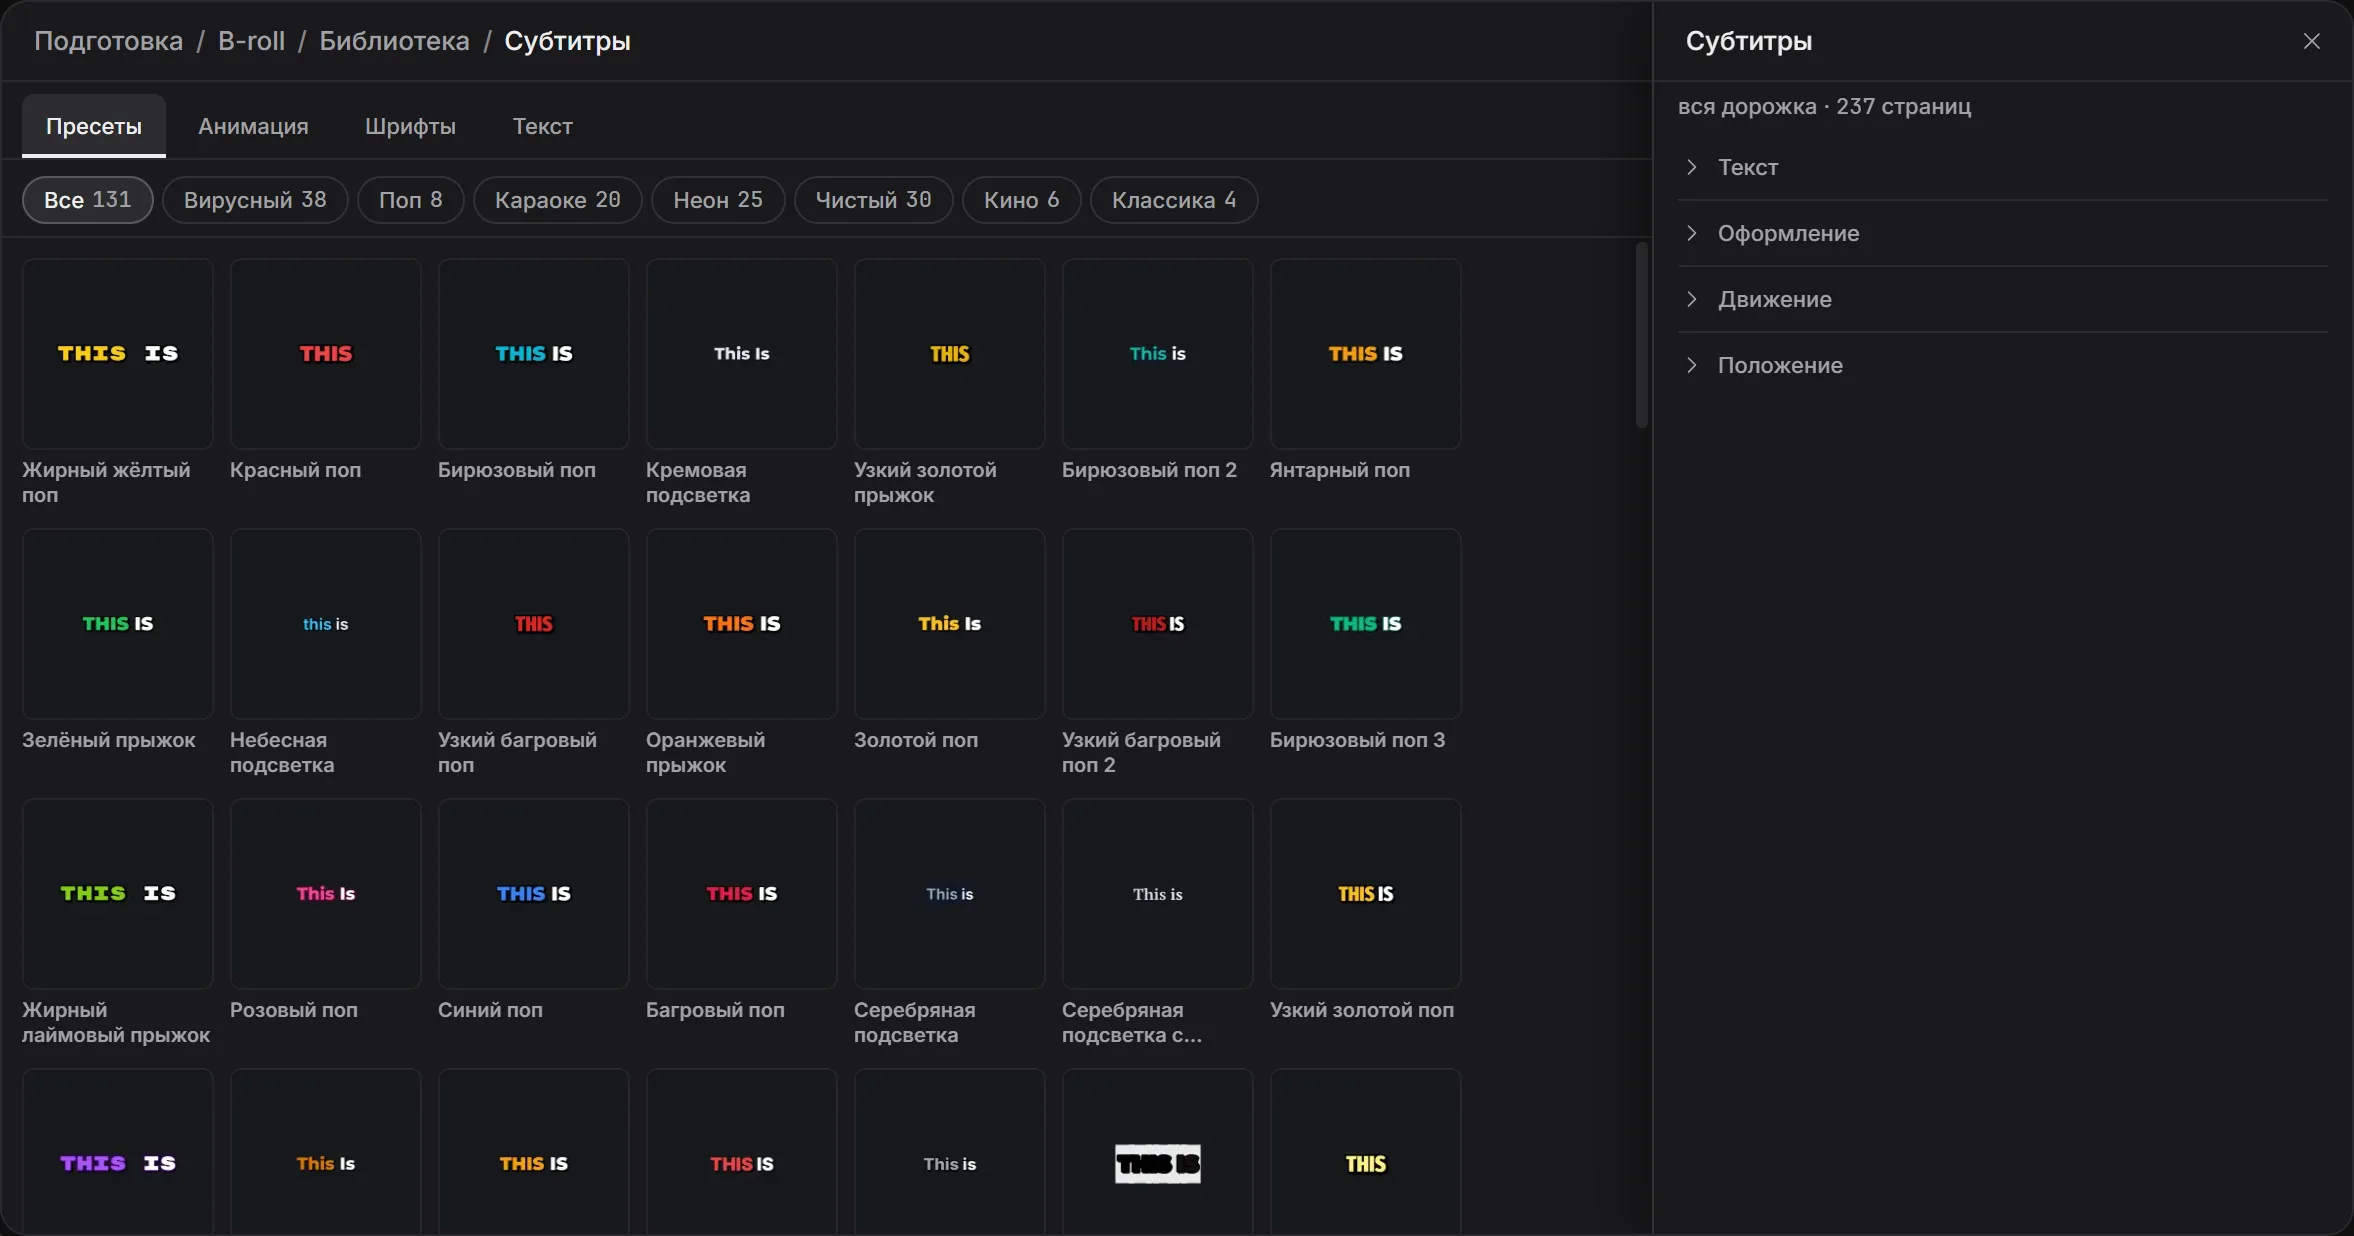
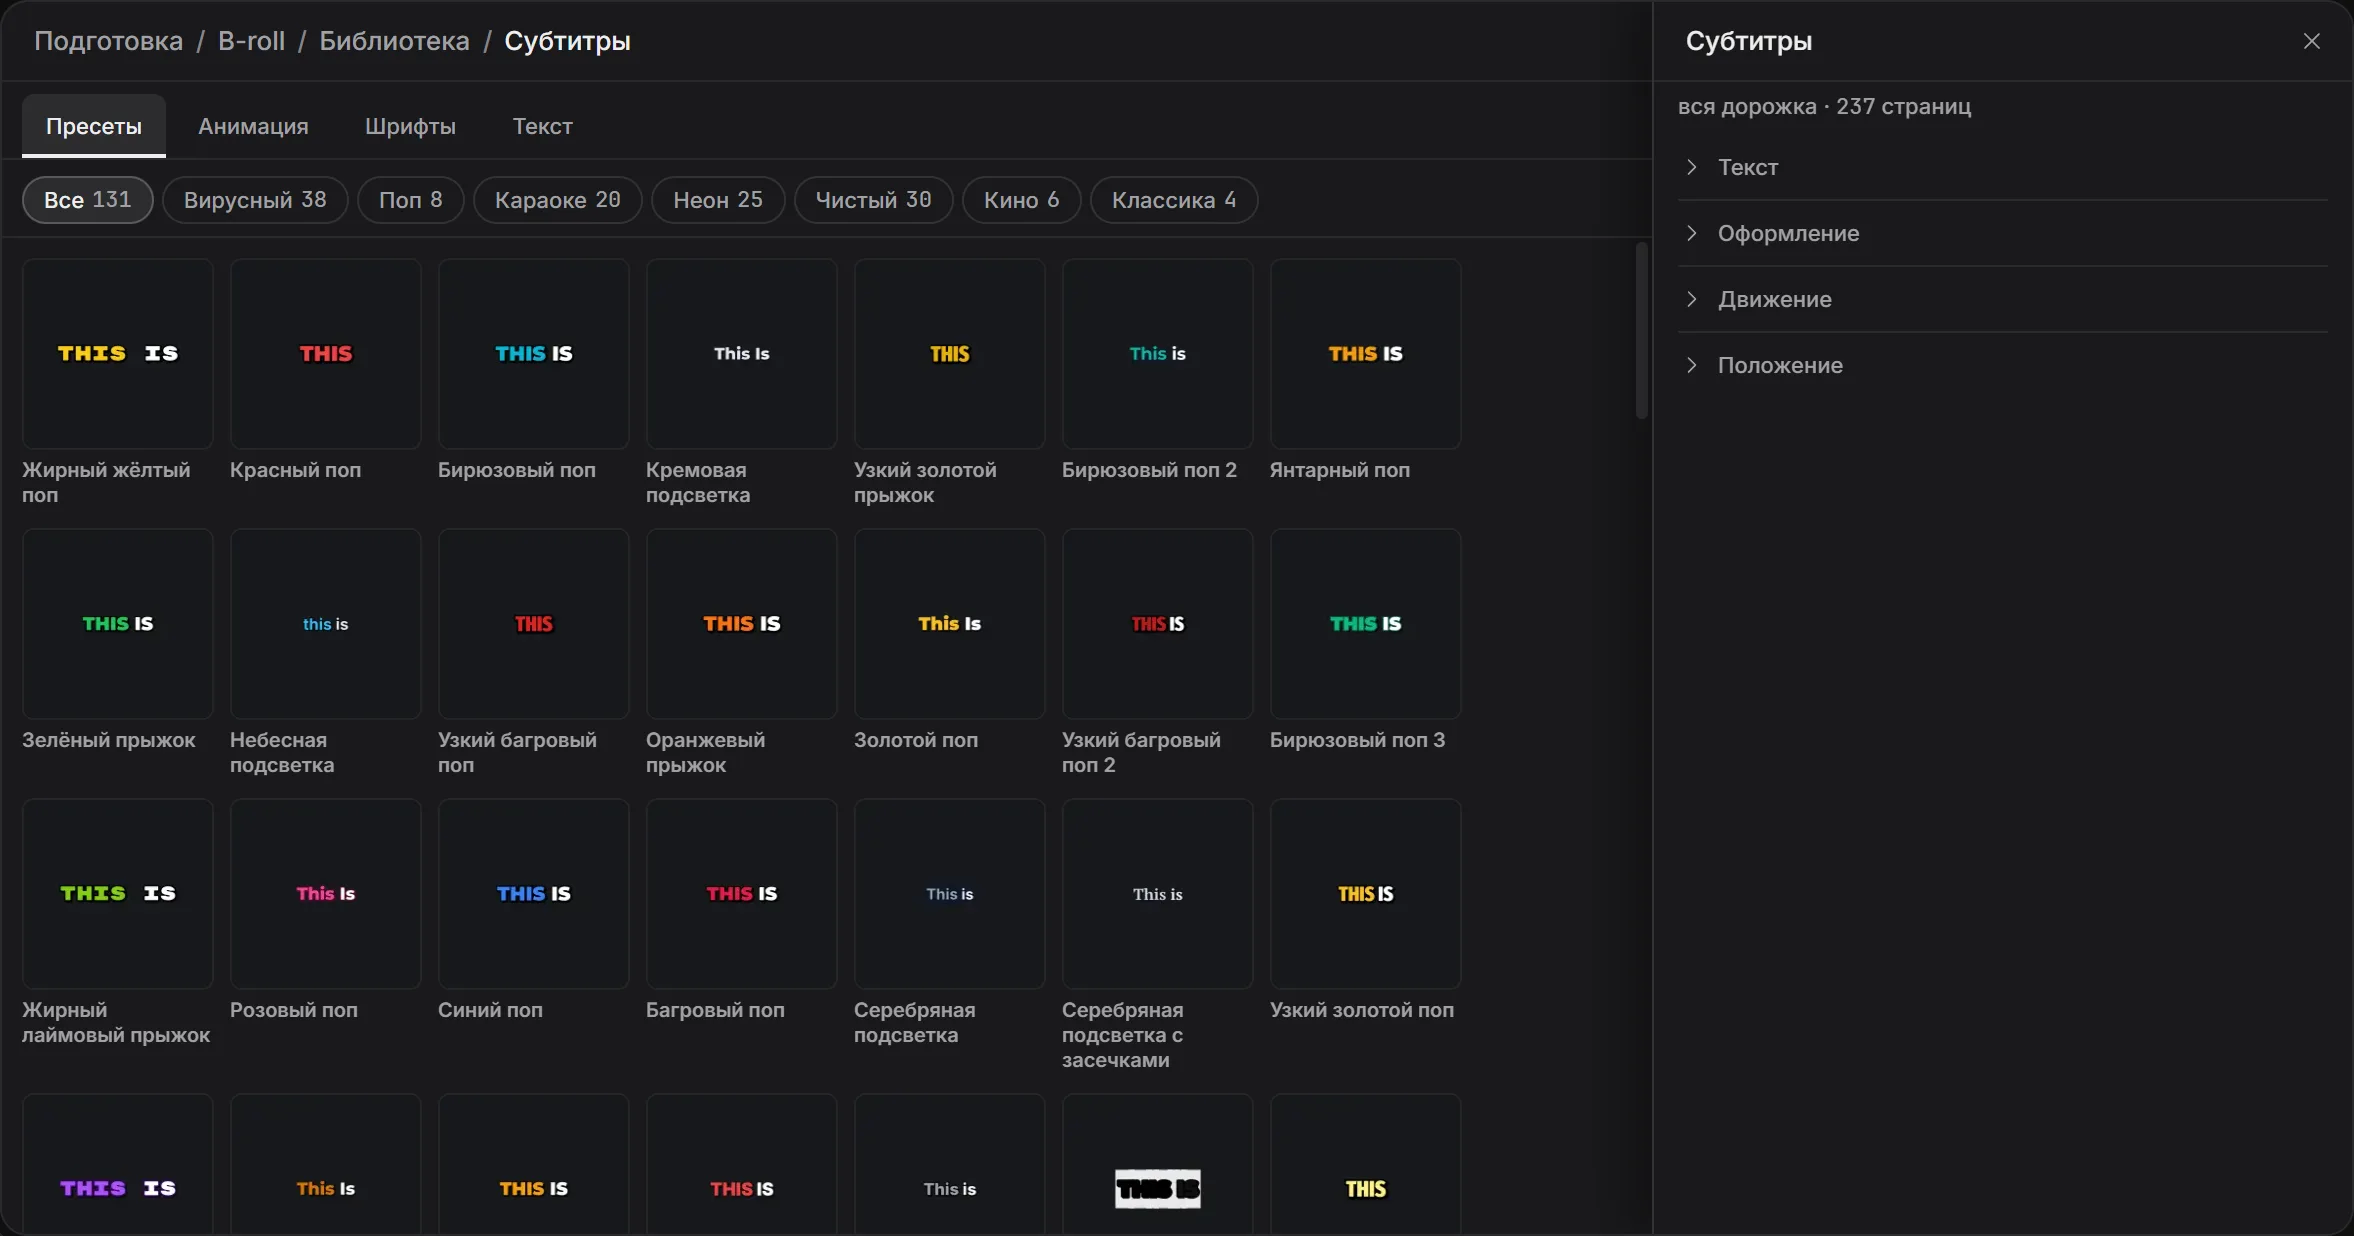
V96 block 7: the look in Russian - every place walked by a probe; caption preset names and the who tabs given room in Russian; a model folder refusal in whole sentences
- A probe over the guide rows and 24 more places in Russian: labels cut by their box, English
  the dictionary says otherwise - only content and stored records remain.
- :root:lang(ru): a caption preset name takes three lines, the who window tabs take their width.
- lib/model-folders.js: a folder with no name and the Other folder said in whole sentences.
- The two Russian guide pictures they change made again.

diff --git a/public/js/i18n/ru/srvlib.js b/public/js/i18n/ru/srvlib.js
@@ -129,7 +129,9 @@ export default {
   'What made this clip is not known - it stays in Other, not in {there}.': 'Неизвестно, чем сделан этот клип, — он остаётся в папке «Другое», а не в папке «{there}».',
   'Made by {model} - it stays in {model}, not in {there}.': 'Сделан моделью {model} — он остаётся в папке «{model}», а не в папке «{there}».',
   'The clips in "{name}" were made by {model} - the folder stays in {model}.': 'Клипы в «{name}» сделаны моделью {model} — папка остаётся в «{model}».',
-  'this folder': 'этой папке',
+  'What made the clips in "{name}" is not known - the folder stays in Other.': 'Неизвестно, чем сделаны клипы в «{name}», — папка остаётся в «Другом».',
+  'What made the clips of this folder is not known - it stays in Other.': 'Неизвестно, чем сделаны клипы этой папки, — она остаётся в «Другом».',
+  'The clips of this folder were made by {model} - it stays in {model}.': 'Клипы этой папки сделаны моделью {model} — она остаётся в «{model}».',
 
   // lib/project-links.js - THIS PROJECT
   'A draft has no THIS PROJECT - save it under a name first.': 'У черновика нет ЭТОГО ПРОЕКТА — сначала сохраните его под именем.',

diff --git a/lib/model-folders.js b/lib/model-folders.js
@@ -145,8 +145,13 @@ function moveWhy(state, id, parent) {
   const to = modelOfCat(st, parent);
   if (from && to !== from) {
     const c = LC.byIdOf(st, KIND, id);
-    return I18N.t('The clips in "{name}" were made by {model} - the folder stays in {model}.',
-      { name: (c && c.label) || I18N.t('this folder'), model: _said(from) });
+    const name = (c && c.label) || '';
+    if (from === OTHER) {
+      return name ? I18N.t('What made the clips in "{name}" is not known - the folder stays in Other.', { name })
+        : I18N.t('What made the clips of this folder is not known - it stays in Other.');
+    }
+    return name ? I18N.t('The clips in "{name}" were made by {model} - the folder stays in {model}.', { name, model: _said(from) })
+      : I18N.t('The clips of this folder were made by {model} - it stays in {model}.', { model: _said(from) });
   }
   return '';
 }

diff --git a/public/css/mv3-imagen.css b/public/css/mv3-imagen.css
@@ -902,6 +902,7 @@ audio.vtrim-media{ background:none; height:32px }
 .wkc-said:not(:empty){ padding:6px 12px; border-top:1px solid var(--border-soft) }
 .pk-ftabs{ flex:0 0 auto; display:flex; gap:4px; padding:0 2px 6px 0; margin-bottom:4px; border-bottom:1px solid var(--border-soft) }
 .pk-ftabs .mv3-sc-tab{ flex:1 1 0; min-width:0; overflow:hidden; text-overflow:ellipsis; white-space:nowrap }
+:root:lang(ru) .pk-ftabs .mv3-sc-tab{ flex:1 1 auto }   /* the longer Russian word takes the room it needs */
 .mk-scroll{ flex:1 1 auto; min-height:0; overflow-y:auto }
 .mk-pair{ flex:0 0 auto; display:flex; align-items:center; gap:6px }
 .mk-pair-img{ width:64px; height:44px; object-fit:contain; border:1px solid var(--border); border-radius:var(--r-xs); background:var(--surface) }

diff --git a/public/css/mv3-captions.css b/public/css/mv3-captions.css
@@ -73,6 +73,8 @@
   overflow-wrap:anywhere;
 }
 .mv3-cap-tile.is-on .mv3-cap-nm{ color:var(--ink) }
+/* Russian names run longer: three lines, so a name is not cut where the English one fits in two. */
+:root:lang(ru) .mv3-cap-nm{ -webkit-line-clamp:3 }
 .mv3-cap-ed{ flex:0 0 auto; font-size:var(--fs-9); color:var(--ink) }   /* "Edited", sentence case */
 .mv3-cap-ed[hidden]{ display:none }
 .mv3-cap.is-ro .mv3-cap-tile{ opacity:.55; cursor:default }
